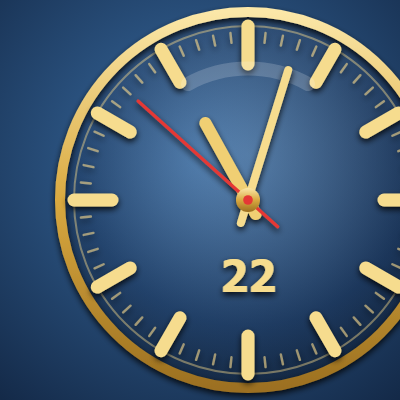
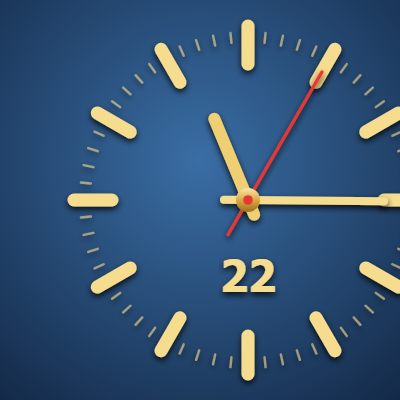
الإصدار 3.5: ساعة الزاوية بدون دايرة وأكبر 10% | v3.5: frameless corner clock, 10% larger

Changed region(s): [[0.12, 0.0, 1.0, 1.0], [0.33, 0.15, 0.99, 0.6]]

diff --git a/ticker.html b/ticker.html
@@ -2519,13 +2519,13 @@ function cornerClockHtml() {
       big = i % 5 === 0;
     ticks += '<line x1="100" y1="' + (big ? 13 : 16) + '" x2="100" y2="' + (big ? 32 : 21) + '" stroke="' + (big ? '#f6dc8e' : 'rgba(243,214,138,.6)') + '" stroke-width="' + (big ? 6.5 : 1.2) + '" stroke-linecap="round" transform="rotate(' + a + ' 100 100)"/>';
   }
-  return '<!doctype html><html><head><meta name="viewport" content="width=device-width,initial-scale=1"><style>html,body{margin:0;height:100%;background:transparent;overflow:hidden}svg{width:100%;height:100%;display:block}</style></head><body>' + '<svg viewBox="0 0 200 200" xmlns="http://www.w3.org/2000/svg"><defs>' + '<linearGradient id="g" x1="0" y1="0" x2="0" y2="1"><stop offset="0" stop-color="#fbe7a8"/><stop offset=".5" stop-color="#d9a940"/><stop offset="1" stop-color="#9c7020"/></linearGradient>' + '<radialGradient id="f" cx=".5" cy=".38" r=".65"><stop offset="0" stop-color="#ffffff" stop-opacity=".16"/><stop offset=".7" stop-color="#0b1430" stop-opacity=".22"/><stop offset="1" stop-color="#000" stop-opacity=".35"/></radialGradient>' + '<filter id="s" x="-30%" y="-30%" width="160%" height="160%"><feGaussianBlur in="SourceAlpha" stdDeviation="1.6"/><feOffset dx="0" dy="1.4" result="o"/>' + '<feComponentTransfer in="o" result="d"><feFuncA type="linear" slope=".85"/></feComponentTransfer><feMerge><feMergeNode in="d"/><feMergeNode in="SourceGraphic"/></feMerge></filter>' + '</defs>' + '<circle cx="100" cy="100" r="94" fill="url(#f)"/>' + '<circle cx="100" cy="100" r="94" fill="none" stroke="url(#g)" stroke-width="5" filter="url(#s)"/>' + '<circle cx="100" cy="100" r="87" fill="none" stroke="rgba(243,214,138,.45)" stroke-width="1"/>' + '<g filter="url(#s)">' + ticks + '</g>' + '<path d="M70 42 A62 62 0 0 1 130 42" fill="none" stroke="rgba(255,255,255,.18)" stroke-width="7" stroke-linecap="round"/>' + '<text id="dt" x="100" y="146" text-anchor="middle" font-family="Tahoma,Arial,sans-serif" font-size="22" font-weight="700" fill="#f6dc8e" filter="url(#s)"></text>' + '<g filter="url(#s)"><line id="h" x1="100" y1="108" x2="100" y2="56" stroke="#f0cf73" stroke-width="6" stroke-linecap="round"/>' + '<line id="m" x1="100" y1="112" x2="100" y2="32" stroke="#f6dc8e" stroke-width="4" stroke-linecap="round"/>' + '<line id="sc" x1="100" y1="120" x2="100" y2="26" stroke="#e53935" stroke-width="1.6" stroke-linecap="round"/>' + '<circle cx="100" cy="100" r="6" fill="url(#g)"/><circle cx="100" cy="100" r="2.4" fill="#e53935"/></g></svg>' + '<script>function t(){var d=new Date(Date.now()+10800000),h=d.getUTCHours()%12,m=d.getUTCMinutes(),s=d.getUTCSeconds();' + 'document.getElementById("h").setAttribute("transform","rotate("+(h*30+m*0.5)+" 100 100)");' + 'document.getElementById("m").setAttribute("transform","rotate("+(m*6+s*0.1)+" 100 100)");' + 'document.getElementById("sc").setAttribute("transform","rotate("+(s*6)+" 100 100)");' + 'var M=["يناير","فبراير","مارس","أبريل","مايو","يونيو","يوليو","أغسطس","سبتمبر","أكتوبر","نوفمبر","ديسمبر"];' + 'document.getElementById("dt").textContent=d.getUTCDate();}t();setInterval(t,1000);<\/script></body></html>';
+  return '<!doctype html><html><head><meta name="viewport" content="width=device-width,initial-scale=1"><style>html,body{margin:0;height:100%;background:transparent;overflow:hidden}svg{width:100%;height:100%;display:block}</style></head><body>' + '<svg viewBox="0 0 200 200" xmlns="http://www.w3.org/2000/svg"><defs>' + '<linearGradient id="g" x1="0" y1="0" x2="0" y2="1"><stop offset="0" stop-color="#fbe7a8"/><stop offset=".5" stop-color="#d9a940"/><stop offset="1" stop-color="#9c7020"/></linearGradient>' + '<radialGradient id="f" cx=".5" cy=".38" r=".65"><stop offset="0" stop-color="#ffffff" stop-opacity=".16"/><stop offset=".7" stop-color="#0b1430" stop-opacity=".22"/><stop offset="1" stop-color="#000" stop-opacity=".35"/></radialGradient>' + '<filter id="s" x="-30%" y="-30%" width="160%" height="160%"><feGaussianBlur in="SourceAlpha" stdDeviation="1.6"/><feOffset dx="0" dy="1.4" result="o"/>' + '<feComponentTransfer in="o" result="d"><feFuncA type="linear" slope=".85"/></feComponentTransfer><feMerge><feMergeNode in="d"/><feMergeNode in="SourceGraphic"/></feMerge></filter>' + '</defs>' + '<g filter="url(#s)">' + ticks + '</g>' + '<text id="dt" x="100" y="146" text-anchor="middle" font-family="Tahoma,Arial,sans-serif" font-size="22" font-weight="700" fill="#f6dc8e" filter="url(#s)"></text>' + '<g filter="url(#s)"><line id="h" x1="100" y1="108" x2="100" y2="56" stroke="#f0cf73" stroke-width="6" stroke-linecap="round"/>' + '<line id="m" x1="100" y1="112" x2="100" y2="32" stroke="#f6dc8e" stroke-width="4" stroke-linecap="round"/>' + '<line id="sc" x1="100" y1="120" x2="100" y2="26" stroke="#e53935" stroke-width="1.6" stroke-linecap="round"/>' + '<circle cx="100" cy="100" r="6" fill="url(#g)"/><circle cx="100" cy="100" r="2.4" fill="#e53935"/></g></svg>' + '<script>function t(){var d=new Date(Date.now()+10800000),h=d.getUTCHours()%12,m=d.getUTCMinutes(),s=d.getUTCSeconds();' + 'document.getElementById("h").setAttribute("transform","rotate("+(h*30+m*0.5)+" 100 100)");' + 'document.getElementById("m").setAttribute("transform","rotate("+(m*6+s*0.1)+" 100 100)");' + 'document.getElementById("sc").setAttribute("transform","rotate("+(s*6)+" 100 100)");' + 'var M=["يناير","فبراير","مارس","أبريل","مايو","يونيو","يوليو","أغسطس","سبتمبر","أكتوبر","نوفمبر","ديسمبر"];' + 'document.getElementById("dt").textContent=d.getUTCDate();}t();setInterval(t,1000);<\/script></body></html>';
 }
 function fillQrCell() {
   var cell = document.getElementById("qrcell");
   try {
     if (window.DiwanBar && window.DiwanBar.showCornerQr) {
-      var px = Math.round(innerHeight * 0.84 * 3 * (window.devicePixelRatio || 1));
+      var px = Math.round(innerHeight * 0.84 * 3.3 * (window.devicePixelRatio || 1));
       window.DiwanBar.showCornerQr(cornerClockHtml(), px);
       cell.style.display = "none";
       wifiCards = [];

diff --git a/source/ticker-src.html b/source/ticker-src.html
@@ -548,7 +548,7 @@ function makeWifiCard(){
 }
 
 /* الباركود في خانة ثابتة بأول الشريط (قبل الساعة) */
-/* ساعة دائرية شفافة (زجاج + إطار ذهبي) تطلع بزاوية الشاشة فوق — بتوقيت الكويت */
+/* ساعة شفافة (علامات الوقت والعقارب فقط، بدون دايرة) تطلع بزاوية الشاشة فوق — بتوقيت الكويت */
 function cornerClockHtml(){
   var ticks="";
   for(var i=0;i<60;i++){var a=i*6,big=i%5===0;
@@ -562,11 +562,7 @@ function cornerClockHtml(){
   '<filter id="s" x="-30%" y="-30%" width="160%" height="160%"><feGaussianBlur in="SourceAlpha" stdDeviation="1.6"/><feOffset dx="0" dy="1.4" result="o"/>'+
   '<feComponentTransfer in="o" result="d"><feFuncA type="linear" slope=".85"/></feComponentTransfer><feMerge><feMergeNode in="d"/><feMergeNode in="SourceGraphic"/></feMerge></filter>'+
   '</defs>'+
-  '<circle cx="100" cy="100" r="94" fill="url(#f)"/>'+
-  '<circle cx="100" cy="100" r="94" fill="none" stroke="url(#g)" stroke-width="5" filter="url(#s)"/>'+
-  '<circle cx="100" cy="100" r="87" fill="none" stroke="rgba(243,214,138,.45)" stroke-width="1"/>'+
   '<g filter="url(#s)">'+ticks+'</g>'+
-  '<path d="M70 42 A62 62 0 0 1 130 42" fill="none" stroke="rgba(255,255,255,.18)" stroke-width="7" stroke-linecap="round"/>'+
   // تاريخ اليوم صغير تحت
   '<text id="dt" x="100" y="146" text-anchor="middle" font-family="Tahoma,Arial,sans-serif" font-size="22" font-weight="700" fill="#f6dc8e" filter="url(#s)"></text>'+
   '<g filter="url(#s)"><line id="h" x1="100" y1="108" x2="100" y2="56" stroke="#f0cf73" stroke-width="6" stroke-linecap="round"/>'+
@@ -585,7 +581,7 @@ function fillQrCell(){
   // في تطبيق الرسيفر: ساعة دائرية شفافة بزاوية الشاشة فوق (بدل الباركود)
   try{
     if(window.DiwanBar&&window.DiwanBar.showCornerQr){
-      const px=Math.round(innerHeight*0.84*3*(window.devicePixelRatio||1));
+      const px=Math.round(innerHeight*0.84*3.3*(window.devicePixelRatio||1));   // الساعة: أكبر 10%
       window.DiwanBar.showCornerQr(cornerClockHtml(),px);
       cell.style.display="none"; wifiCards=[]; return;
     }

diff --git a/app/src/com/diwaniya/kuwait/BuildInfo.java b/app/src/com/diwaniya/kuwait/BuildInfo.java
@@ -2,6 +2,6 @@ package com.diwaniya.kuwait;
 
 /** رقم النسخة — يطلع في تقرير الفحص */
 final class BuildInfo {
-    static final String VERSION = "3.4";
+    static final String VERSION = "3.5";
     static final boolean DEBUG = false;
 }

diff --git a/README.md b/README.md
@@ -41,14 +41,14 @@
 | لأي جهاز | **كل أجهزة Android TV من أندرويد 5 لين أحدثها** (مجرّب على Z6 أندرويد 10، وعلى رسيفر أندرويد 5.1) | الأجهزة القديمة مثل Eurostar ES4000 (أندرويد 5.1) |
 | الحجم | حوالي 350 كيلوبايت | حوالي 80 كيلوبايت |
 | ارتفاع الشريط | 6% من الشاشة | 4.6% من الشاشة |
-| الميزات | الساعة والحرارة والصلاة والمباريات والعطل ورمضان والأخبار وتنبيهات القصف والطقس والساعة الدائرية الشفافة والساعة الذهبية | الطقس والساعة والتاريخ والصلاة القادمة بعدّاد تنازلي |
+| الميزات | الساعة والحرارة والصلاة والمباريات والعطل ورمضان والأخبار وتنبيهات القصف والطقس والساعة الشفافة بالزاوية والساعة الذهبية | الطقس والساعة والتاريخ والصلاة القادمة بعدّاد تنازلي |
 | يحتاج سيرفر؟ | لا (السيرفر اختياري) | لا |
 
 تفاصيل الشريط البسيط ومقاساته ومميزاته: [simple-bar/README.md](simple-bar/README.md)
 
 ### 📺 الصور
 
-| الشريط فوق البث | الساعة الدائرية بالزاوية | شاشة التوقف (الساعة الذهبية) |
+| الشريط فوق البث | الساعة الشفافة بالزاوية | شاشة التوقف (الساعة الذهبية) |
 |---|---|---|
 | <img src="docs/tv.jpg" width="320"> | <img src="docs/clock.png" width="180"> | <img src="docs/saver.jpg" width="320"> |
 
@@ -65,7 +65,7 @@
 | 📰 | **أخبار كونا** | الخبر المهم فقط، بدون تكرار، بشريط بسمك الشريط كامل |
 | 🚨 | **تنبيهات الطقس** | غبار (مع شرط إن الرؤية أقل من 5 كم)، عواصف رعدية، أمطار، ضباب، حر شديد، رياح قوية |
 | ⚠ | **تنبيه الهجمات** | من عناوين الأخبار (مسيّرة / صاروخ)، يبقى 12 ساعة. **مو نظام إنذار رسمي** (شوف التنبيه تحت) |
-| ⏱ | **ساعة دائرية شفافة بالزاوية** | فوق يمين الشاشة: إطار ذهبي، وعلامات ساعات عريضة مع ظل، وعقرب ثواني أحمر، وتحتها رقم اليوم |
+| ⏱ | **ساعة شفافة بالزاوية** | فوق يمين الشاشة، بدون دايرة: علامات وقت ذهبية عريضة مع ظل، وعقارب ذهبية، وعقرب ثواني أحمر، وتحتها رقم اليوم |
 | ✍ | **«ديوانية الكويت»** | بخط الرقعة الذهبي |
 | 🕰 | **شاشة توقف** | ساعة ذهبية فاخرة تطلع بعد دقيقتين بدون استخدام، أو فوراً عند كتم الصوت، وتختفي أول ما تضغط أي زر |
 | 🎯 | **فوق البث بس** | يطلع فوق تطبيقات البث (IPTV، يوتيوب، شاهد، نتفلكس، VLC...)، وشاشة الرسيفر الرئيسية ما تتغير |
@@ -167,7 +167,7 @@ Details, sizes and features of the Simple Bar: [simple-bar/README.md](simple-bar
 | 📰 | **KUNA news** | Important headlines only, no repeats, as a full-height card |
 | 🚨 | **Weather alerts** | Dust (only when visibility is under 5 km), thunderstorms, rain, fog, extreme heat, strong wind |
 | ⚠ | **Attack alerts** | Based on news headlines (drone / missile), kept for 12 hours. **Not an official warning system** (see the note below) |
-| ⏱ | **Transparent corner clock** | Top-right analog clock with a gold frame, bold shadowed hour marks, a red second hand and today's date |
+| ⏱ | **Transparent corner clock** | Top-right, frameless: bold shadowed gold hour marks, gold hands, a red second hand and today's day number |
 | ✍ | **"Diwaniya Kuwait"** | In golden Ruqaa calligraphy |
 | 🕰 | **Screensaver** | A luxurious gold clock after 2 idle minutes, or instantly on mute; any key dismisses it |
 | 🎯 | **Streaming apps only** | Appears over IPTV, YouTube, Shahid, Netflix, VLC...; the home screen is untouched |
